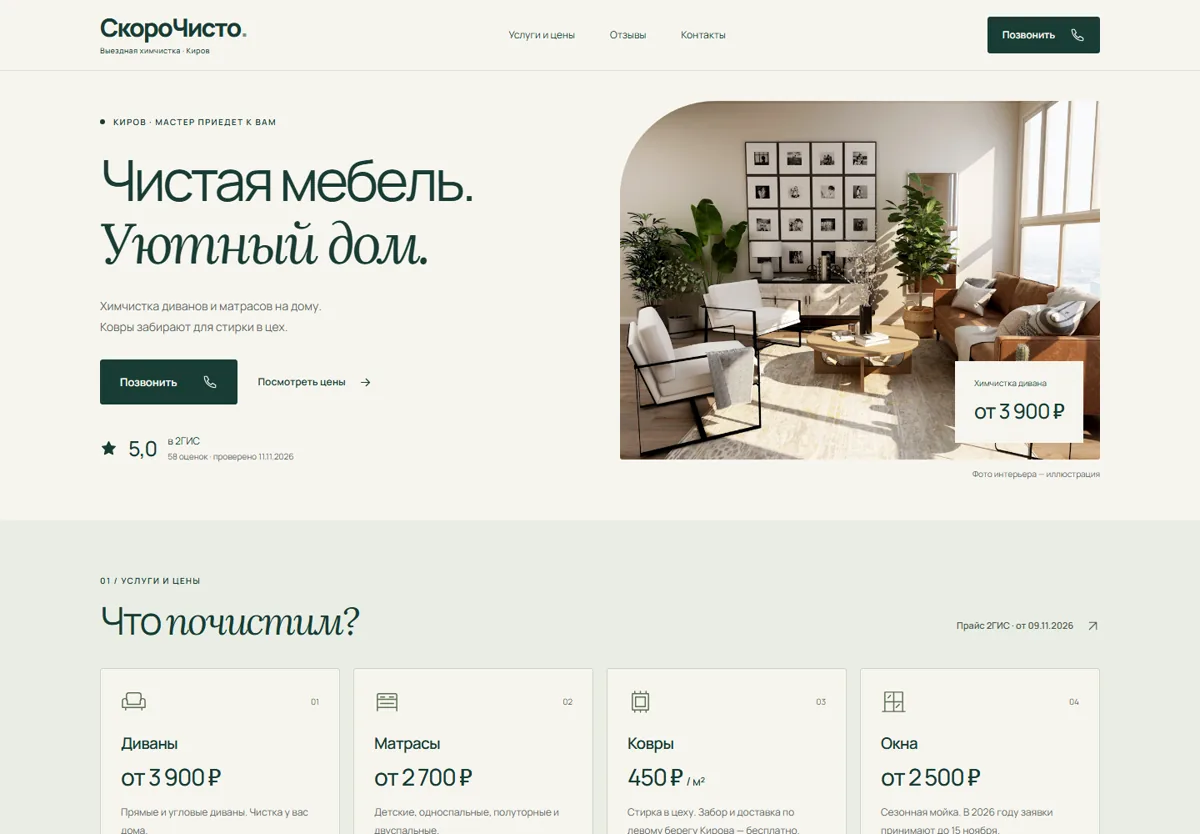
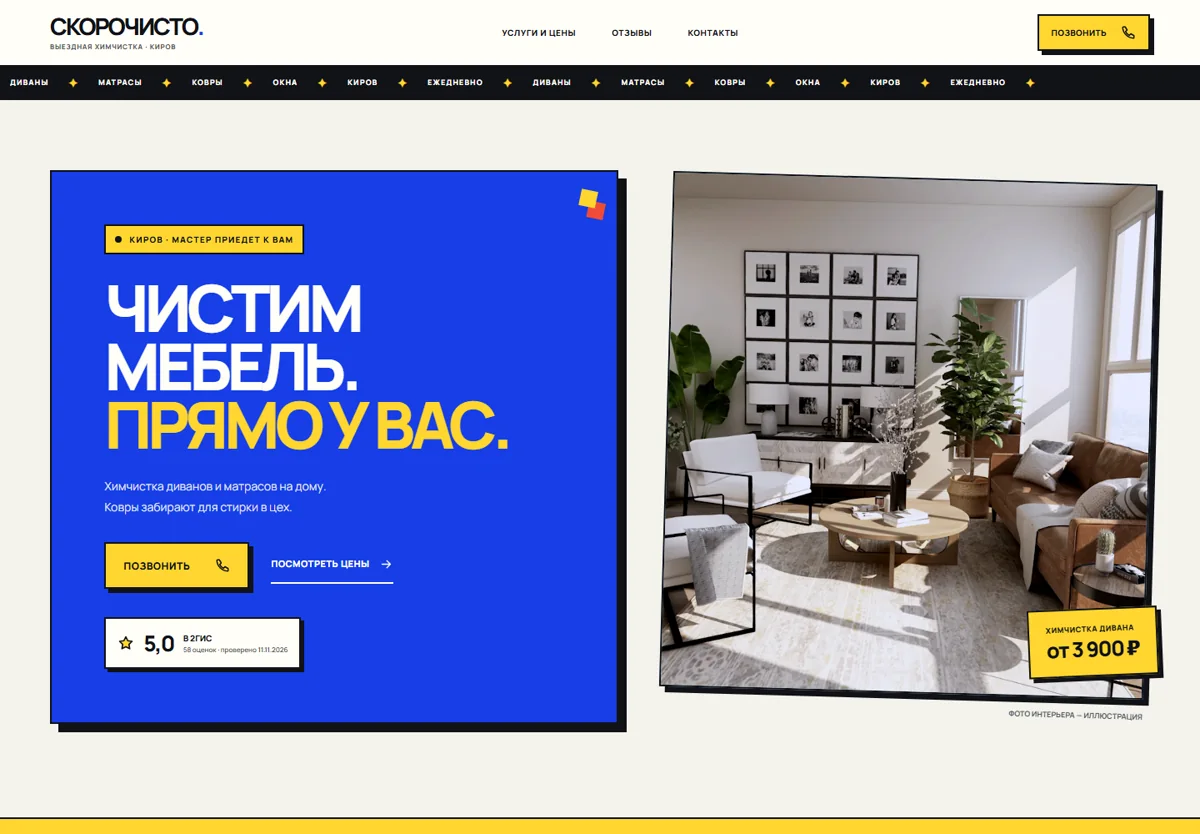
Update SkoroChisto portfolio preview

diff --git a/styles.css b/styles.css
@@ -184,7 +184,7 @@ ol { padding: 0; list-style: none; }
 .project { margin-top: 28px; padding: clamp(22px, 3vw, 45px); border: 1px solid var(--line); }
 .project + .project { margin-top: clamp(40px, 6vw, 88px); }
 .project--beauty { background: #dce6dc; }
-.project--skoro { background: #e8e1d1; }
+.project--skoro { background: #f2d33a; }
 .project--chisto { background: #d9e2da; }
 .project__head { display: flex; justify-content: space-between; gap: 20px; padding-bottom: 25px; color: rgba(18,21,22,.68); font-size: 8px; font-weight: 750; letter-spacing: .12em; text-transform: uppercase; }
 .project__layout { display: grid; align-items: stretch; grid-template-columns: minmax(0, 1.62fr) minmax(290px, .58fr); gap: clamp(27px, 4vw, 65px); }
@@ -202,6 +202,7 @@ ol { padding: 0; list-style: none; }
 .project__number { margin-bottom: clamp(38px, 5vw, 75px); color: rgba(18,21,22,.72); font-size: 11px; }
 .project h3 { font-size: clamp(43px, 4.2vw, 70px); font-weight: 500; line-height: .9; letter-spacing: -.07em; }
 .project h3 em { color: var(--green); }
+.project--skoro h3 em { color: #173ee8; }
 .project--chisto h3 span { color: var(--orange); }
 .project__description { margin-top: 28px; color: var(--ink-soft); font-size: 12px; line-height: 1.85; }
 .project__scope { margin-top: auto; padding-top: 35px; }

diff --git a/index.html b/index.html
@@ -132,7 +132,7 @@
               <div>
                 <p class="project__number">02</p>
                 <h3>Скоро<br><em>Чисто</em></h3>
-                <p class="project__description">Короткий сайт для выездной химчистки: услуги и цены без перегруза, реальные отзывы, контакты и звонок в один тап.</p>
+                <p class="project__description">Яркий утилитарный сайт для выездной химчистки: цены сразу на виду, реальные отзывы, контакты и звонок в один тап.</p>
               </div>
               <dl class="project__scope">
                 <div><dt>Задача</dt><dd>Упростить путь к звонку</dd></div>
